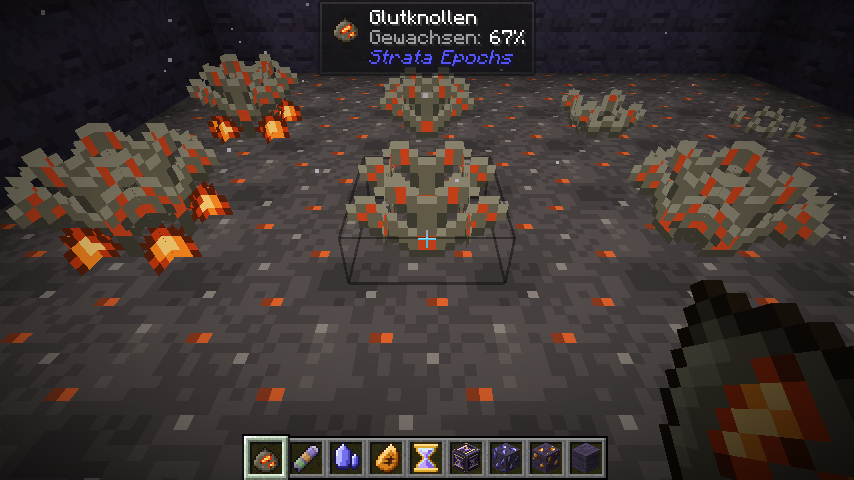
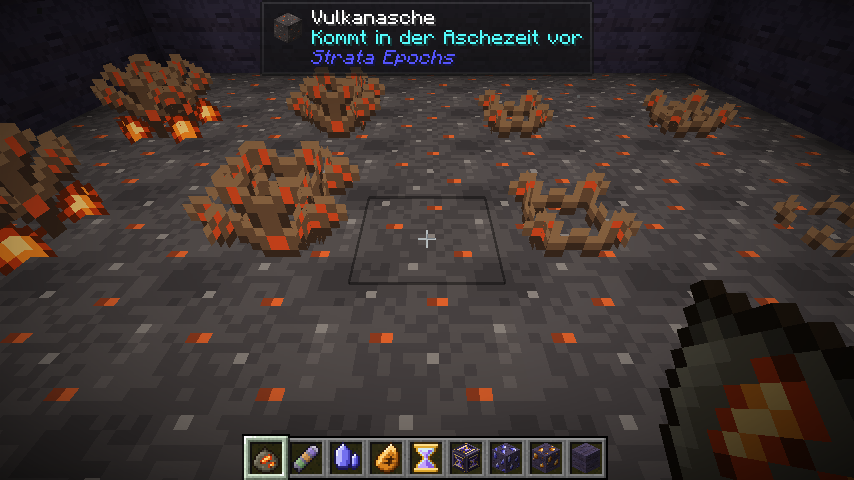
Epochen-Pflanzen: kein Knochenmehl, 1–2 Samen pro Ernte, NeoForge-Wachstumshooks
Knochenmehl wirkt nicht (CropBase pro Versionsgruppe, Signatur ab 26.3 anders),
Bonus-Samen extra 1 statt 3 (Generator sucht die Formel formatunabhängig, 26.3
nutzt modifier), canCropGrow/fireCropGrowPost, Boden-Hinweis nur von oben auf
Blöcke ohne Menü. Samen-Icon als Kapseln, Glutknolle warm-braun statt aschgrau.

Claude-Session: https://claude.ai/code/session_01Ctsg8SxXVHQPATnSMNydJr

Changed region(s): [[0.0, 0.0, 1.0, 0.5938]]

diff --git a/epochs/src/shared/java/dev/strata/epochs/EpochCrop.java b/epochs/src/shared/java/dev/strata/epochs/EpochCrop.java
@@ -10,7 +10,6 @@ import net.minecraft.world.level.BlockGetter;
 import net.minecraft.world.level.ItemLike;
 import net.minecraft.world.level.LevelReader;
 import net.minecraft.world.level.biome.Biome;
-import net.minecraft.world.level.block.BeetrootBlock;
 import net.minecraft.world.level.block.Block;
 import net.minecraft.world.level.block.state.BlockState;
 
@@ -18,9 +17,9 @@ import net.minecraft.world.level.block.state.BlockState;
  * Epochen-Pflanze (Quarzdistel, Harzfarn, Glutknolle): vier Stufen wie Rote Bete. Sie steht nur auf dem Boden
  * ihrer Epoche ({@code #strata_epochs:soil/<epoche>}) und nur in einem Biom der Epoche
  * ({@code #strata_epochs:epoch/<epoche>}), also in der Epoche selbst oder auf transplantiertem Boden.
- * Licht braucht sie nicht, die Epochen sind Höhlenwelten.
+ * Licht braucht sie nicht, die Epochen sind Höhlenwelten. Knochenmehl wirkt nicht (siehe CropBase).
  */
-public class EpochCrop extends BeetrootBlock {
+public class EpochCrop extends dev.strata.epochs.mc.CropBase {
 
     /** Im Mittel wächst sie bei jedem fünften Zufallstick eine Stufe (etwa 17 Minuten bis zur Reife). */
     public static final int GROWTH_CHANCE = 5;
@@ -62,8 +61,11 @@ public class EpochCrop extends BeetrootBlock {
     @Override
     protected void randomTick(BlockState state, ServerLevel level, BlockPos pos, RandomSource random) {
         int age = state.getValue(getAgeProperty());
-        if (age < getMaxAge() && random.nextInt(GROWTH_CHANCE) == 0) {
+        if (age >= getMaxAge()) return;
+        // Über die NeoForge-Hooks, damit Jahreszeiten- und Wachstums-Mods mitreden können.
+        if (net.neoforged.neoforge.common.CommonHooks.canCropGrow(level, pos, state, random.nextInt(GROWTH_CHANCE) == 0)) {
             level.setBlock(pos, getStateForAge(age + 1), Block.UPDATE_CLIENTS);
+            net.neoforged.neoforge.common.CommonHooks.fireCropGrowPost(level, pos, level.getBlockState(pos));
         }
     }
 
@@ -84,7 +86,9 @@ public class EpochCrop extends BeetrootBlock {
      * welcher Boden und welche Epoche gebraucht werden (sonst passiert einfach nichts).
      */
     static void onRightClickBlock(net.neoforged.neoforge.event.entity.player.PlayerInteractEvent.RightClickBlock event) {
-        if (event.getLevel().isClientSide() || event.getFace() == null) return;
+        // Nur beim Pflanzen von oben auf einen Block ohne Menü (nicht beim Öffnen einer Truhe mit Samen in der Hand).
+        if (event.getLevel().isClientSide() || event.getFace() != net.minecraft.core.Direction.UP) return;
+        if (event.getLevel().getBlockState(event.getPos()).getMenuProvider(event.getLevel(), event.getPos()) != null) return;
         if (!(event.getItemStack().getItem() instanceof net.minecraft.world.item.BlockItem item)) return;
         if (!(item.getBlock() instanceof EpochCrop crop)) return;
         if (!(event.getEntity() instanceof net.minecraft.server.level.ServerPlayer player)) return;

diff --git a/epochs/src/shared/java/dev/strata/epochs/SelfTest.java b/epochs/src/shared/java/dev/strata/epochs/SelfTest.java
@@ -516,7 +516,9 @@ final class SelfTest {
             }
             boolean ripe = epoch.getBlockState(at).is(crop) && crop.isMaxAge(epoch.getBlockState(at));
             var drops = net.minecraft.world.level.block.Block.getDrops(epoch.getBlockState(at), epoch, at, null);
-            boolean harvest = drops.stream().anyMatch(d -> d.is(c.product()));
+            int seeds = drops.stream().filter(d -> d.is(EpochCrop.seedFor(crop.epoch()))).mapToInt(d -> d.getCount()).sum();
+            boolean harvest = drops.stream().anyMatch(d -> d.is(c.product())) && seeds >= 1 && seeds <= 2;
+            boolean noBonemeal = !dev.strata.epochs.mc.CropBase.acceptsBonemeal(crop, epoch, at);
             var young = net.minecraft.world.level.block.Block.getDrops(crop.defaultBlockState(), epoch, at, null);
             boolean seedBack = young.size() == 1 && young.get(0).is(EpochCrop.seedFor(crop.epoch()))
                     && young.stream().noneMatch(d -> d.is(c.product()));
@@ -540,11 +542,11 @@ final class SelfTest {
             String key = "message.strata_epochs.crop.wrong_place." + net.minecraft.core.registries.BuiltInRegistries.BLOCK
                     .getKey(crop).getPath();
             boolean texts = LANG.get("de_de").contains(key) && LANG.get("en_us").contains(key);
-            boolean ok = onSoil && !onStone && ripe && harvest && seedBack && !wild && transplanted && texts;
+            boolean ok = onSoil && !onStone && ripe && harvest && noBonemeal && seedBack && !wild && transplanted && texts;
             if (!ok) failures++;
             StrataEpochs.LOG.info("[Strata-Test] Pflanze {}: Boden={}, Stein={}, reif nach {} Ticks={}, Ernte={} ({}), "
-                    + "jung nur Samen={}, Oberwelt={}, transplantiert={}, Texte={} -> {}", crop.epoch(), onSoil, onStone,
-                    ticks, ripe, harvest, drops, seedBack, wild, transplanted, texts, ok ? "OK" : "FEHLER");
+                    + "Knochenmehl={}, jung nur Samen={}, Oberwelt={}, transplantiert={}, Texte={} -> {}", crop.epoch(), onSoil,
+                    onStone, ticks, ripe, harvest, drops, !noBonemeal, seedBack, wild, transplanted, texts, ok ? "OK" : "FEHLER");
         }
         return failures;
     }

diff --git a/tools/make_textures.py b/tools/make_textures.py
@@ -1356,7 +1356,7 @@ def resin_fern(stage):
     return from_grid(grids[stage], FERN_PAL)
 
 
-TUBER_PAL = {'e': '#8a8470', 'E': '#615b49', 'x': '#3d3a2f', 'v': '#c2401a',
+TUBER_PAL = {'e': '#86603f', 'E': '#5e412b', 'x': '#36241a', 'v': '#c2401a',
              'o': '#ffcf73', 'O': '#ff8a1f', 'R': '#c8380e', 'n': '#5a1e0a'}
 
 
@@ -1411,27 +1411,27 @@ def ember_tubers(stage):
 # ---------------------------------------------------------------- Saatgut (Items mit Umriss)
 
 def quartz_thistle_seeds():
-    # Vier kantige, violett schimmernde Samen mit hellem Kristallglanz.
-    pal = {'w': '#f2f2ff', 'l': '#b8b6ff', 'm': '#8a6fe0', 'k': '#4a3a9a', 'q': '#5b3d8f'}
+    # Drei graugrüne Samenkapseln der Distel, aus deren Spitze ein kleiner Kristall schaut (nicht wie Kristallquarz).
+    pal = {'g': '#a4bfa8', 'G': '#6f8f78', 'd': '#3f5a48', 'k': '#4a44c0', 'm': '#7471f2', 'l': '#c8c6ff'}
     rows = [
         '................',
         '................',
-        '................',
-        '.........wl.....',
-        '........wlmk....',
-        '.........mkk....',
-        '..wl......k.....',
-        '.wlmk...........',
-        '..mkk.....wl....',
-        '...k.....wlmk...',
-        '.......wl.mkq...',
-        '......wlmk.k....',
-        '.......mkq......',
-        '........k.......',
-        '................',
+        '..........l.....',
+        '.........lmk....',
+        '.........gGk....',
+        '....l...gGGd....',
+        '...lmk..gGGd....',
+        '...gGk..gGGd....',
+        '..gGGd...gd.....',
+        '..gGGd.....l....',
+        '..gGGd....lmk...',
+        '...gd.....gGk...',
+        '.........gGGd...',
+        '.........gGGd...',
+        '..........gd....',
         '................',
     ]
-    return outline(from_grid(rows, pal), '#21184a')
+    return outline(from_grid(rows, pal), '#1c2a20')
 
 
 def resin_fern_spores():

diff --git a/epochs/src/tools_props/java/dev/strata/epochs/mc/CropBase.java b/epochs/src/tools_props/java/dev/strata/epochs/mc/CropBase.java
@@ -1,0 +1,28 @@
+package dev.strata.epochs.mc;
+
+import net.minecraft.core.BlockPos;
+import net.minecraft.world.level.LevelReader;
+import net.minecraft.world.level.block.BeetrootBlock;
+import net.minecraft.world.level.block.BonemealSource;
+import net.minecraft.world.level.block.state.BlockState;
+
+/**
+ * Basis der Epochen-Pflanzen: Knochenmehl wirkt nicht (sonst wäre die langsame Farm in der Epoche sofort
+ * ausgehebelt). Ab 26.3 bekommt {@code isValidBonemealTarget} zusätzlich die Quelle des Düngers.
+ */
+public abstract class CropBase extends BeetrootBlock {
+
+    protected CropBase(Properties props) {
+        super(props);
+    }
+
+    @Override
+    public boolean isValidBonemealTarget(LevelReader level, BlockPos pos, BlockState state, BonemealSource source) {
+        return false;
+    }
+
+    /** Für den Selbsttest: nimmt die Pflanze Knochenmehl an (Quelle: Spieler mit Knochenmehl)? */
+    public static boolean acceptsBonemeal(BeetrootBlock crop, LevelReader level, BlockPos pos) {
+        return crop.isValidBonemealTarget(level, pos, level.getBlockState(pos), BonemealSource.INTERACTION);
+    }
+}

diff --git a/epochs/src/reg_1_21_1/java/dev/strata/epochs/mc/CropBase.java b/epochs/src/reg_1_21_1/java/dev/strata/epochs/mc/CropBase.java
@@ -1,0 +1,27 @@
+package dev.strata.epochs.mc;
+
+import net.minecraft.core.BlockPos;
+import net.minecraft.world.level.LevelReader;
+import net.minecraft.world.level.block.BeetrootBlock;
+import net.minecraft.world.level.block.state.BlockState;
+
+/**
+ * Basis der Epochen-Pflanzen: Knochenmehl wirkt nicht (sonst wäre die langsame Farm in der Epoche sofort
+ * ausgehebelt). Die Signatur von {@code isValidBonemealTarget} ändert sich in 26.3, daher pro Versionsgruppe.
+ */
+public abstract class CropBase extends BeetrootBlock {
+
+    protected CropBase(Properties props) {
+        super(props);
+    }
+
+    @Override
+    public boolean isValidBonemealTarget(LevelReader level, BlockPos pos, BlockState state) {
+        return false;
+    }
+
+    /** Für den Selbsttest: nimmt die Pflanze Knochenmehl an? */
+    public static boolean acceptsBonemeal(BeetrootBlock crop, LevelReader level, BlockPos pos) {
+        return crop.isValidBonemealTarget(level, pos, level.getBlockState(pos));
+    }
+}

diff --git a/epochs/src/tools_classic/java/dev/strata/epochs/mc/CropBase.java b/epochs/src/tools_classic/java/dev/strata/epochs/mc/CropBase.java
@@ -1,0 +1,27 @@
+package dev.strata.epochs.mc;
+
+import net.minecraft.core.BlockPos;
+import net.minecraft.world.level.LevelReader;
+import net.minecraft.world.level.block.BeetrootBlock;
+import net.minecraft.world.level.block.state.BlockState;
+
+/**
+ * Basis der Epochen-Pflanzen: Knochenmehl wirkt nicht (sonst wäre die langsame Farm in der Epoche sofort
+ * ausgehebelt). Die Signatur von {@code isValidBonemealTarget} ändert sich in 26.3, daher pro Versionsgruppe.
+ */
+public abstract class CropBase extends BeetrootBlock {
+
+    protected CropBase(Properties props) {
+        super(props);
+    }
+
+    @Override
+    public boolean isValidBonemealTarget(LevelReader level, BlockPos pos, BlockState state) {
+        return false;
+    }
+
+    /** Für den Selbsttest: nimmt die Pflanze Knochenmehl an? */
+    public static boolean acceptsBonemeal(BeetrootBlock crop, LevelReader level, BlockPos pos) {
+        return crop.isValidBonemealTarget(level, pos, level.getBlockState(pos));
+    }
+}

diff --git a/README.md b/README.md
@@ -78,9 +78,9 @@ Je nach Epoche bekommst du einen Ammonit, einen Farnabdruck oder einen Urzeitsch
 | **Harzfarn** (Harzfarn-Sporen) | Sporenzeit | Myzel, Moos, Schlamm, Wirrnyzel | 1 Bernsteinsplitter |
 | **Glutknolle** | Aschezeit | Vulkanasche, Schwarzstein, Seelenerde | 1 Glutsplitter, glüht reif |
 
-- Dazu kommen 0–3 neue Samen (Glück hilft).
+- Dazu kommen 1–2 Samen (Glück gibt mehr). Saatgut bleibt also knapp, eine Farm wächst langsam.
 - Die Pflanzen wachsen nur in einem Biom ihrer Epoche, also in der Epoche selbst oder auf Boden, den der **Transplantator** dorthin verwandelt hat. So wird ein transplantiertes Gebiet zur Farm für Epochen-Rohstoffe.
-- Licht brauchen sie nicht. Reif sind sie nach etwa 17 Minuten, Knochenmehl hilft ein wenig.
+- Licht brauchen sie nicht. Reif sind sie nach etwa 17 Minuten. Knochenmehl wirkt nicht, die Zeit lässt sich nicht abkürzen.
 - An der falschen Stelle sagt dir die Aktionsleiste, welchen Boden die Pflanze braucht.
 - Pack-Autoren erweitern den Boden über die Tags `strata_epochs:soil/<epoche>` und die Biome über `strata_epochs:epoch/<epoche>`.
 
